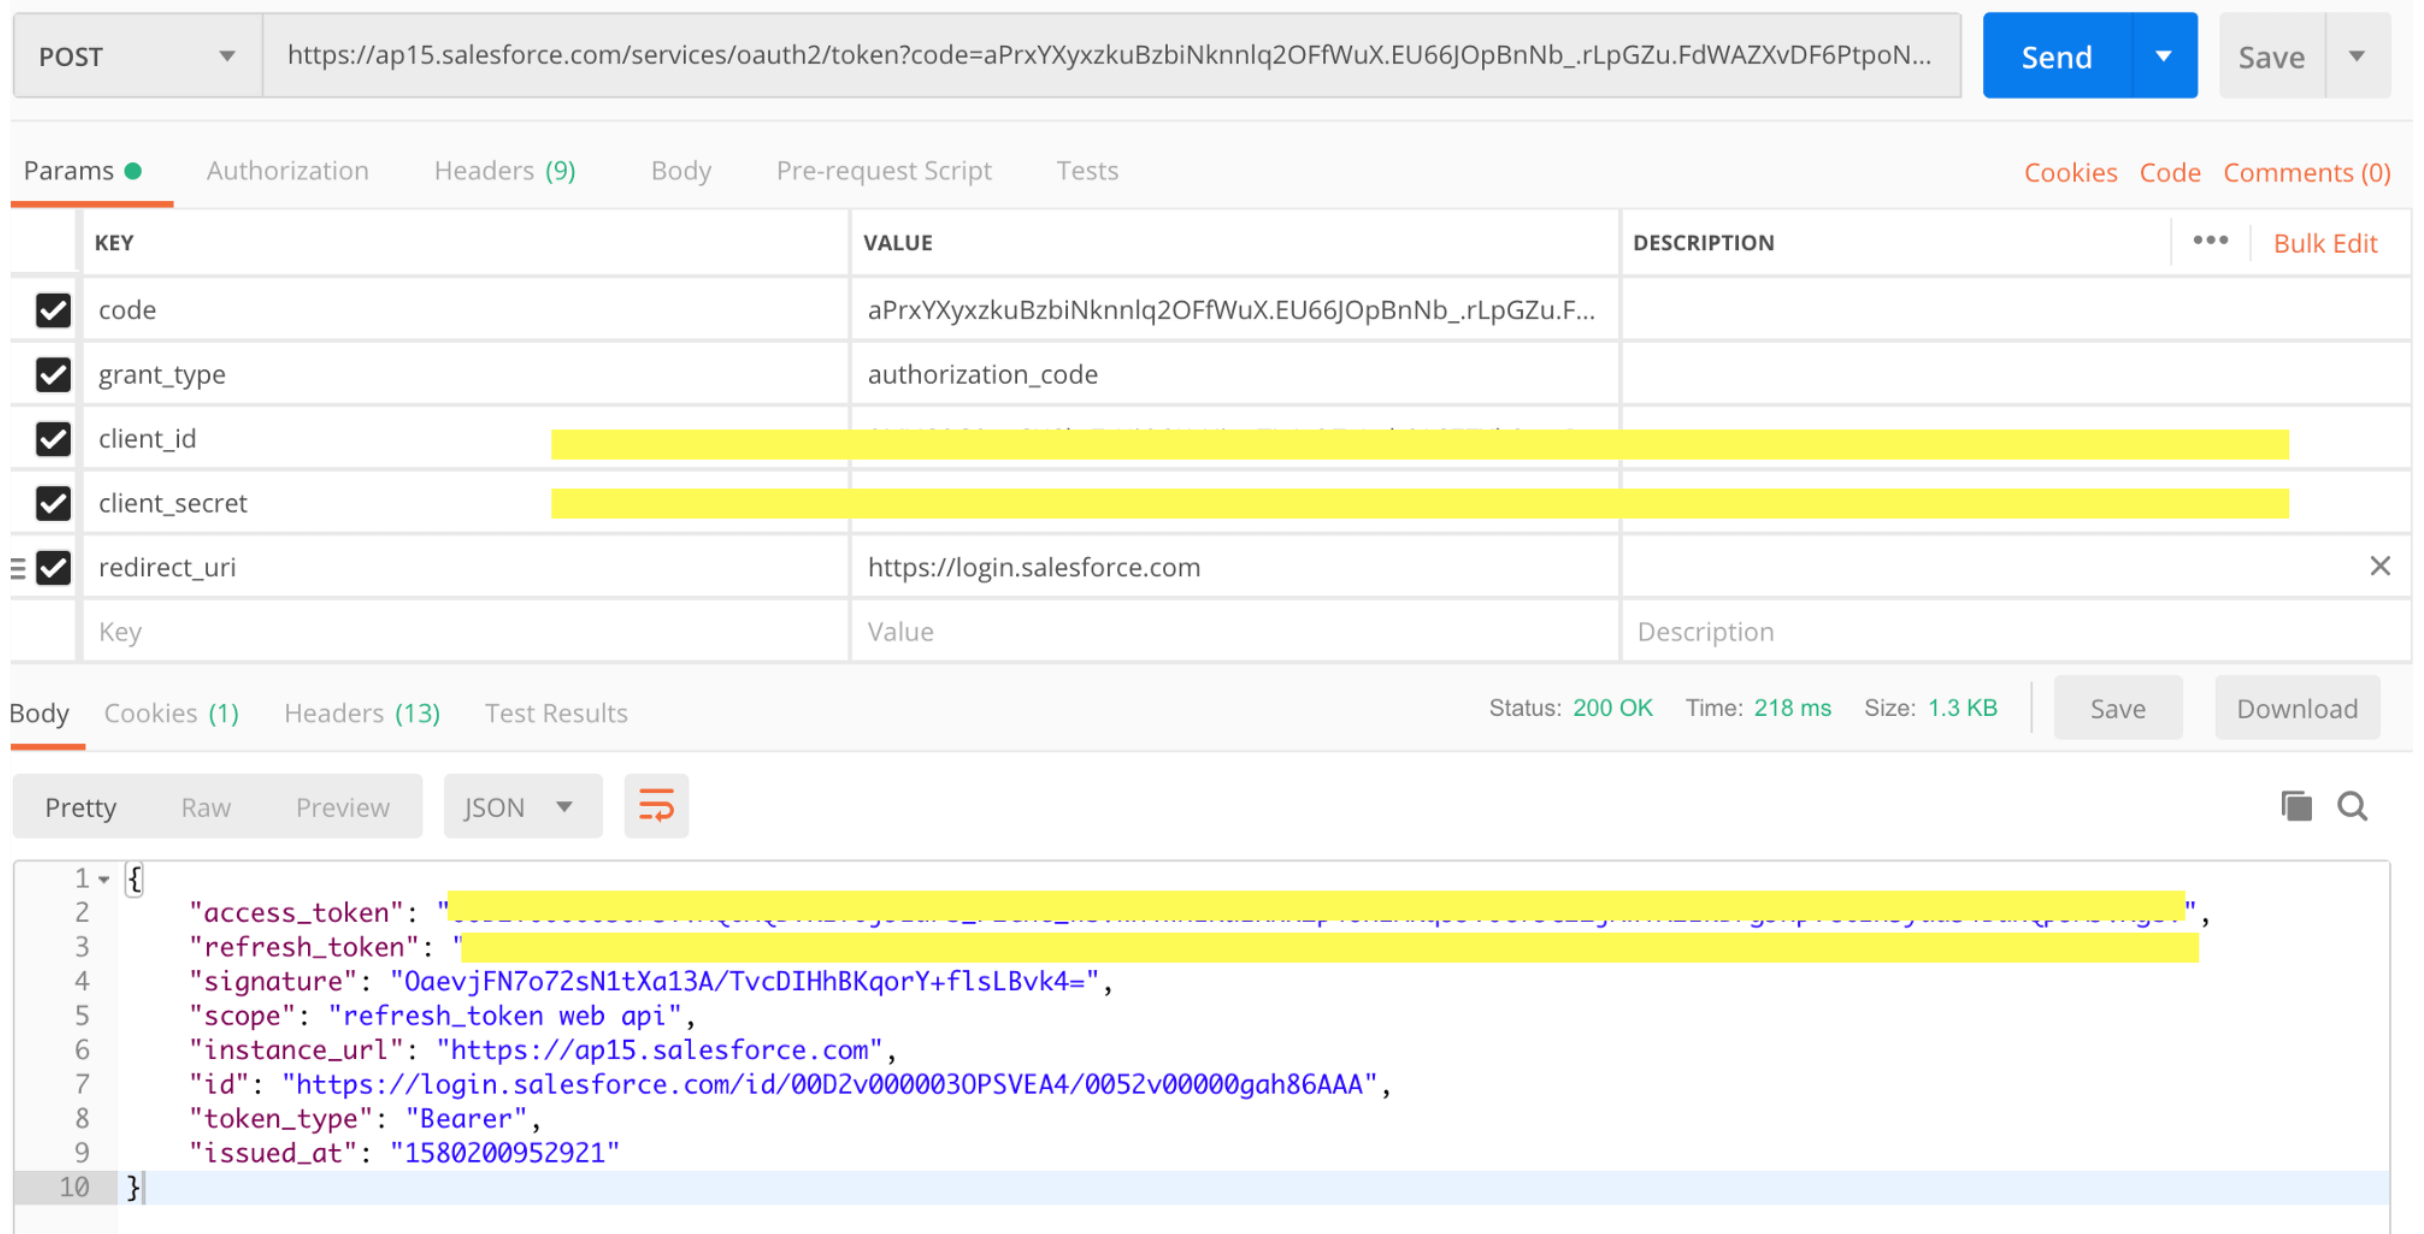
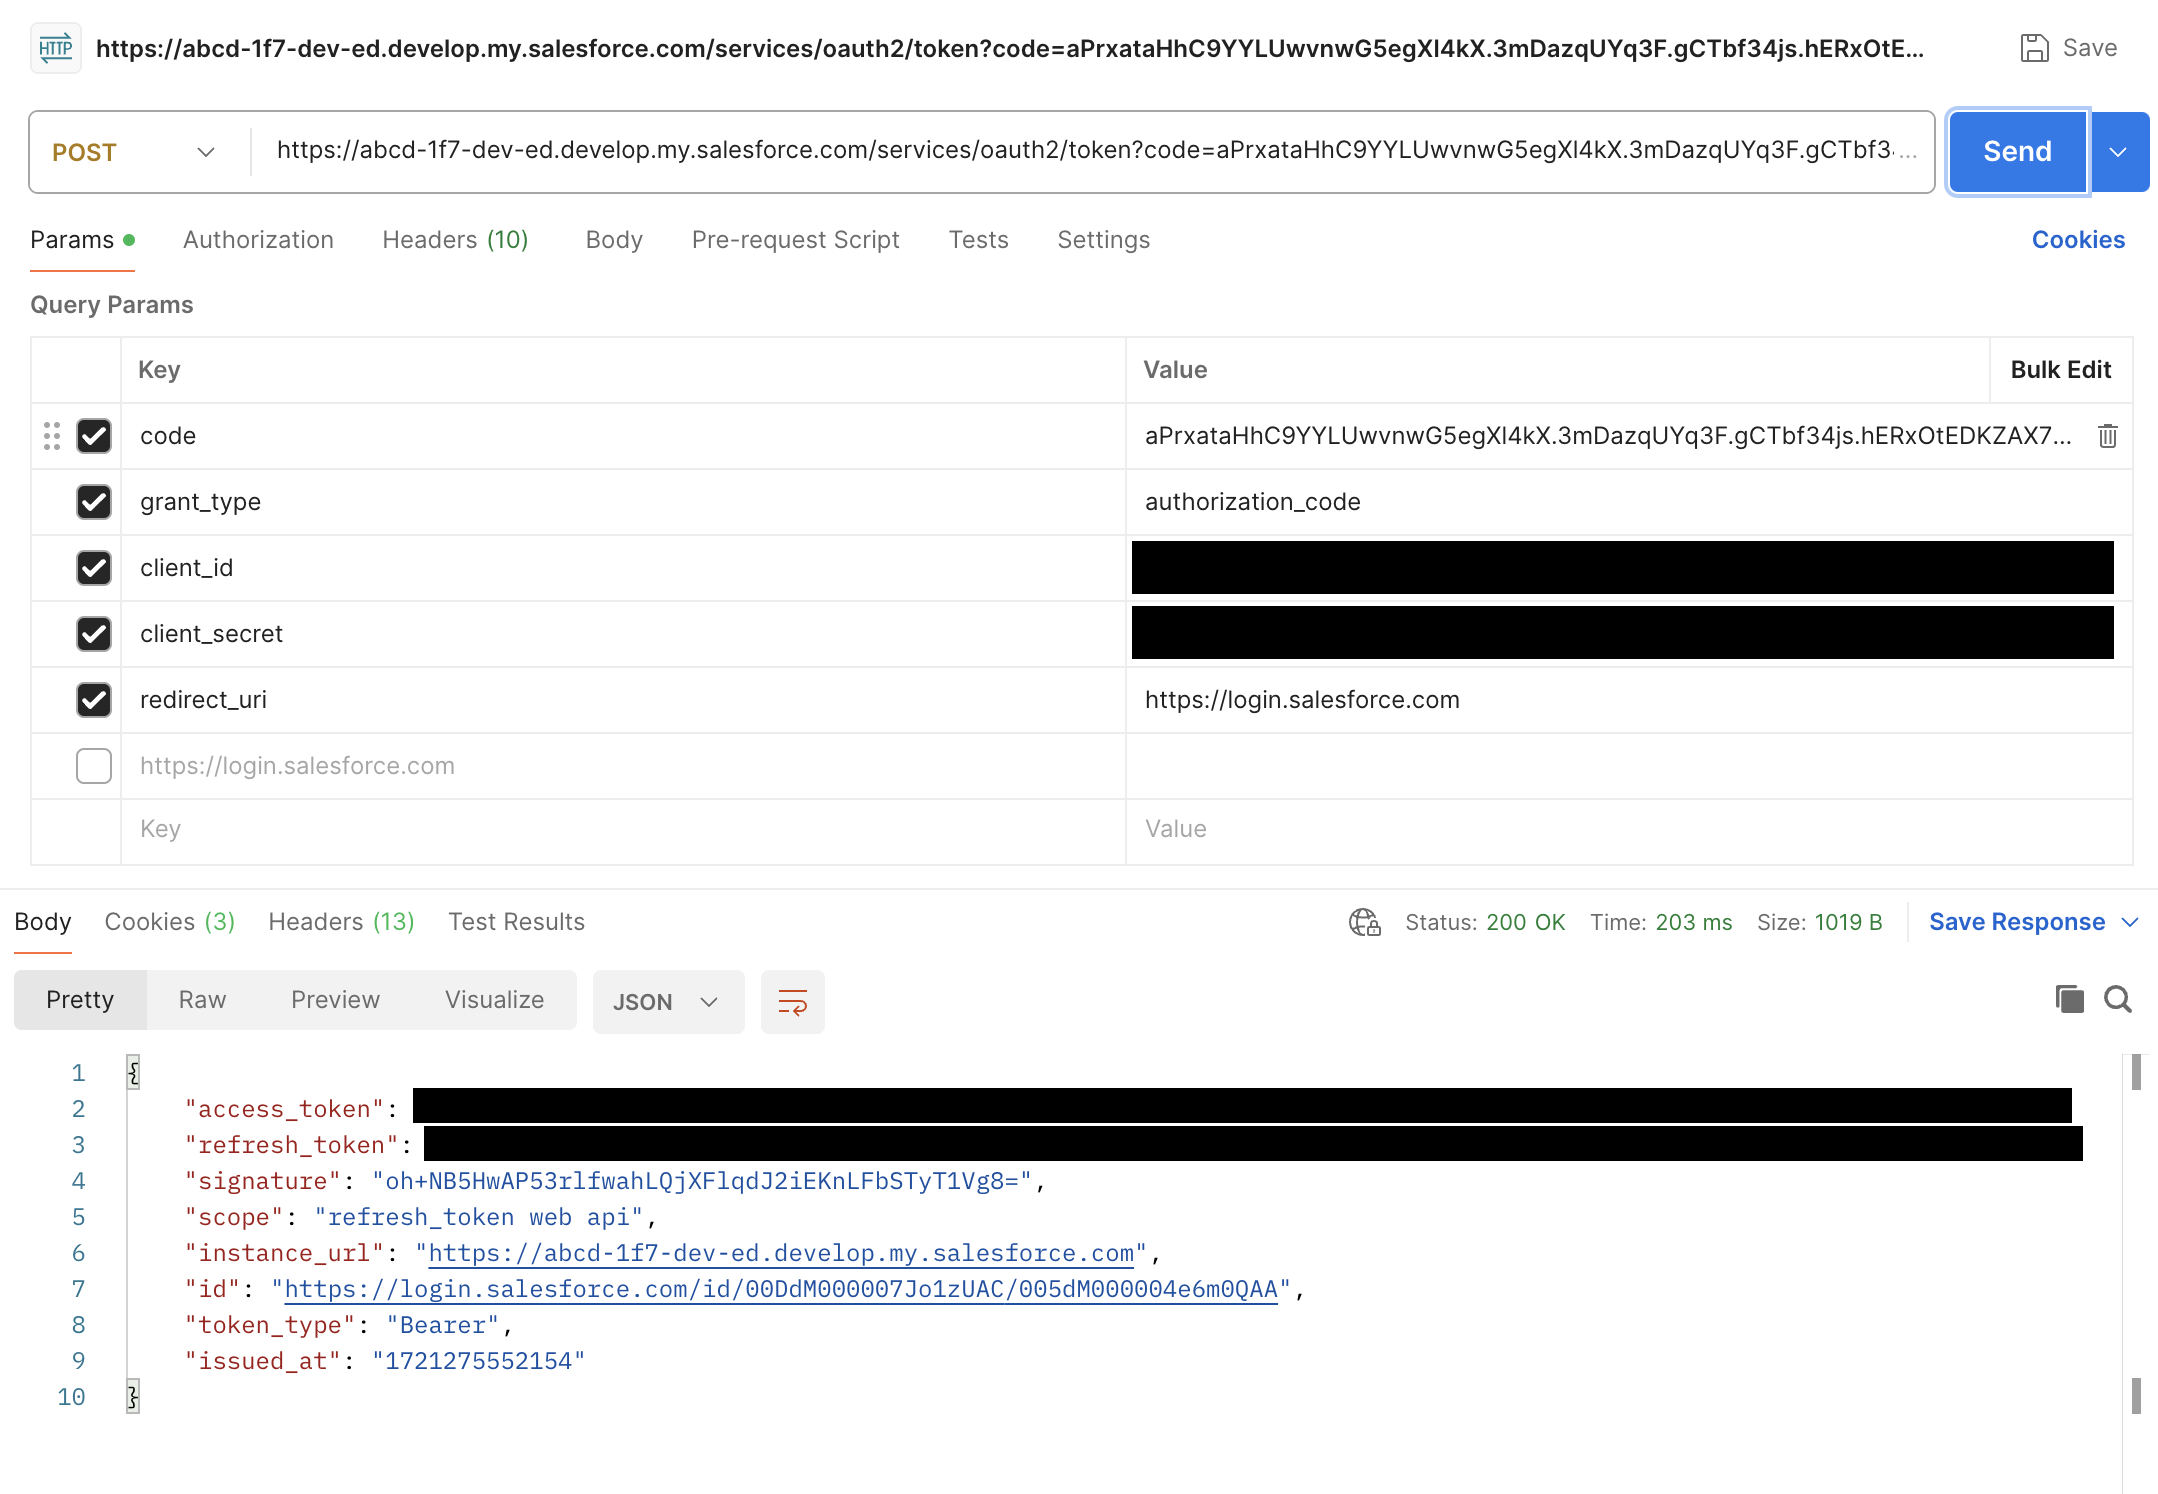
update salesforce access token generation

diff --git a/en/docs/includes/reference/connectors/salesforce-connectors/sf-access-token-generation.md b/en/docs/includes/reference/connectors/salesforce-connectors/sf-access-token-generation.md
@@ -28,6 +28,8 @@ First, we will create a Salesforce App (Connected App) and obtain the OAuth 2 to
         * Access and manage your data (API).
         * Perform requests on your behalf at any time (refresh_token, offline_access).
         * Provide access to your data via the Web (web), and then click Add.
+    
+    * Untick the **Require Proof Key for Code Exchange (PKCE) Extension for Supported Authorization Flows** field.
 
 5. Click the **Save** button to save the new Connected App.
 
@@ -38,10 +40,12 @@ First, we will create a Salesforce App (Connected App) and obtain the OAuth 2 to
    
 8. On the page that opens, click the **Edit** button. Under **OAuth policies**, select All users may self-authorize in the Permitted Users list, and then click the **Save** button.   
 
-9. Now we have to obtain the access token and refresh token as indicated below. Enter the following URL in your web browser. **<INSTANCE>** should be replaced with your `instance name`, in my example it is `ap17`.
+9. Now we have to obtain the access token and refresh token as indicated below. Enter the following URL in your web browser. **<DOMAIN>** should be replaced with your `domain name`, in my example it is `abcd-1f7-dev-ed`.
+
+    Goto **Settings**->**Company Settings**->**My Domain** to find your `domain name`. 
 
     ```
-    https://<INSTANCE>.salesforce.com/services/oauth2/authorize?response_type=code&client_id=<CONSUMER_KEY>&redirect_uri=https://login.salesforce.com
+    https://<DOMAIN>.develop.my.salesforce.com/services/oauth2/authorize?response_type=code&client_id=<CONSUMER_KEY>&redirect_uri=https://login.salesforce.com
     ```
 
     If this is a new browser, you will need to verify the account again with a code sent to the email, and login to the account. It will be redirected to a URL similar to the following.
@@ -59,13 +63,13 @@ First, we will create a Salesforce App (Connected App) and obtain the OAuth 2 to
 11. Now import the following in POSTMAN and obtain the tokens.
 
     ```
-    curl --location --request POST "https://ap15.salesforce.com/services/oauth2/token?code=aPrxYXyxzkuBzbiNknnlq2OFfWuX.EU66JOpBnNb_.rLpGZu.FdWAZXvDF6PtpoNWUjnrjYX8g%253D%253D&grant_type=authorization_code&client_id=3MVG9G9pzCUSkzZtNiO9KrUineTIaJzO7xLokQLSZ7Xb8mnRgsMC.J6EZNQ9lA.HIxMg7LRmCpxdH.mnU_1au&client_secret=37E2B8478E8C6ADBFB4045466CCB98AA067CE9D8D8A4E3F17D2440B13F046740&redirect_uri=https://login.salesforce.com" \
+    curl --location --request POST "https://abcd-1f7-dev-ed.develop.my.salesforce.com/services/oauth2/token?code=aPrxYXyxzkuBzbiNknnlq2OFfWuX.EU66JOpBnNb_.rLpGZu.FdWAZXvDF6PtpoNWUjnrjYX8g%253D%253D&grant_type=authorization_code&client_id=3MVG9G9pzCUSkzZtNiO9KrUineTIaJzO7xLokQLSZ7Xb8mnRgsMC.J6EZNQ9lA.HIxMg7LRmCpxdH.mnU_1au&client_secret=37E2B8478E8C6ADBFB4045466CCB98AA067CE9D8D8A4E3F17D2440B13F046740&redirect_uri=https://login.salesforce.com" \
     --header "Accept: */*" \
     --header "Accept-Encoding: gzip, deflate" \
     --header "Cache-Control: no-cache" \
     --header "Connection: keep-alive" \
     --header "Content-Length: 0" \
-    --header "Host: ap15.salesforce.com" \
+    --header "Host: abcd-1f7-dev-ed.develop.my.salesforce.com" \
     --header "Postman-Token: 7d68f566-7907-443d-9cbc-f5a7205ff1af,7239d98b-8020-47cc-9922-595ef03c676c" \
     --header "User-Agent: PostmanRuntime/7.19.0" \
     --header "cache-control: no-cache"
